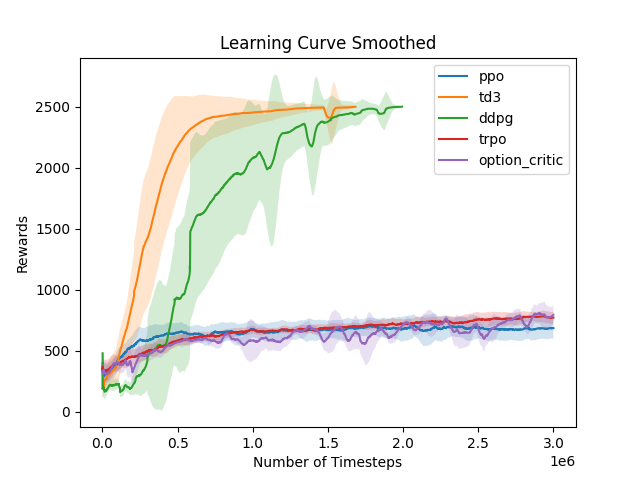
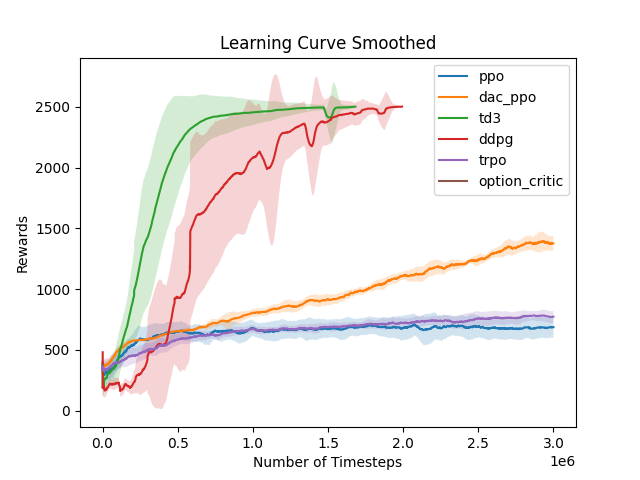
Added DAC+PPO benchmark and code

diff --git a/Algorithms/dac_ppo/dac_ppo.py b/Algorithms/dac_ppo/dac_ppo.py
@@ -411,14 +411,13 @@ class DAC_PPO:
             self.env.render('human')
         states, done, ep_ret, ep_len = self.env.reset(), False, 0, 0
         is_initial_states = to_tensor(np.ones((1))).byte().to(self.device)
-        prev_options = is_initial_states.clone().long().to(self.device)
+        prev_options = to_tensor(np.zeros((1))).long().to(self.device)
         img = []
         if record:
             img.append(self.env.render('rgb_array'))
 
         if timesteps is not None:
             for i in range(timesteps):
-                # select option
                 prediction = self.network(states)
                 pi_hat = self.compute_pi_hat(prediction, prev_options, is_initial_states)
                 dist = torch.distributions.Categorical(probs=pi_hat)
@@ -427,13 +426,13 @@ class DAC_PPO:
                 # Gaussian policy
                 mean = prediction['mean'][0, options]
                 std = prediction['std'][0, options]
-                # dist = torch.distributions.Normal(mean, std)
+                dist = torch.distributions.Normal(mean, std)
 
                 # select action
                 actions = mean
                 
                 next_states, rewards, terminals, _ = self.env.step(to_np(actions[0]))
-                is_initial_states = to_tensor(terminals).unsqueeze(-1).byte()
+                is_initial_states = to_tensor(terminals).unsqueeze(-1).byte().to(self.device)
                 prev_options = options
                 states = next_states
                 if record:
@@ -459,7 +458,7 @@ class DAC_PPO:
                 actions = mean
 
                 next_states, rewards, terminals, _ = self.env.step(to_np(actions[0]))
-                is_initial_states = to_tensor(terminals).unsqueeze(-1).byte()
+                is_initial_states = to_tensor(terminals).unsqueeze(-1).byte().to(self.device)
                 prev_options = options
                 states = next_states
                 if record:

diff --git a/test.py b/test.py
@@ -58,7 +58,7 @@ def random_test(env_fn, render=True, record_dir=None, timesteps=None):
 def parse_arguments():
     parser = argparse.ArgumentParser()
     parser.add_argument('--env', type=str, default='AntBulletEnv-v0', help='environment_id')
-    parser.add_argument('--agent', type=str, default='ppo', choices=['ddpg', 'trpo', 'ppo', 'td3', 'option_critic', 'random'], help='specify type of agent')
+    parser.add_argument('--agent', type=str, default='ppo', choices=['ddpg', 'trpo', 'ppo', 'td3', 'option_critic', 'dac_ppo', 'random'], help='specify type of agent')
     parser.add_argument('--render', action='store_true', help='if true, display human renders of the environment')
     parser.add_argument('--gif', action='store_true', help='if true, make gif of the trained agent')
     parser.add_argument('--timesteps', type=int, help='specify number of timesteps to train for')
@@ -138,6 +138,11 @@ def main():
         else:
             from Algorithms.option_critic.oc_continuous import Option_Critic
         model = Option_Critic(env_fn, save_dir, seed=args.seed, logger_kwargs=logger_kwargs, **model_kwargs)
+        model.load_weights()
+
+    elif args.agent.lower() == 'dac_ppo':
+        from Algorithms.dac_ppo.dac_ppo import DAC_PPO
+        model = DAC_PPO(env_fn, save_dir, seed=args.seed, logger_kwargs=logger_kwargs, **model_kwargs)
         model.load_weights()
 
     ep_ret, ep_len = model.test(render=args.render, record=args.gif, timesteps=args.timesteps)

diff --git a/train.py b/train.py
@@ -98,7 +98,7 @@ def main():
         from Algorithms.dac_ppo.dac_ppo import DAC_PPO
         model_kwargs['tensorboard_logdir'] = os.path.join("tf_logs", args.env, args.agent)
         model = DAC_PPO(env_fn, save_dir, seed=args.seed, logger_kwargs=logger_kwargs, **model_kwargs)
-        with open(os.path.join(save_dir, "option_critic_config.json"), "w") as f:
+        with open(os.path.join(save_dir, "dac_ppo_config.json"), "w") as f:
             f.write(json.dumps(model_kwargs, indent=4))   
 
     print(model.network)

diff --git a/README.md b/README.md
@@ -54,6 +54,13 @@ This repo is a pytorch implementation of various deep RL algorithms, trained and
             <td> :heavy_check_mark: </td>
             <td> :x: </td>
         </tr>   
+        <tr>
+            <td> DAC_PPO </td>
+            <td> :heavy_check_mark: </td>
+            <td> :heavy_check_mark: </td>
+            <td> :heavy_check_mark: </td>
+            <td> :x: </td>
+        </tr>   
     </tbody>
 </table>
 
